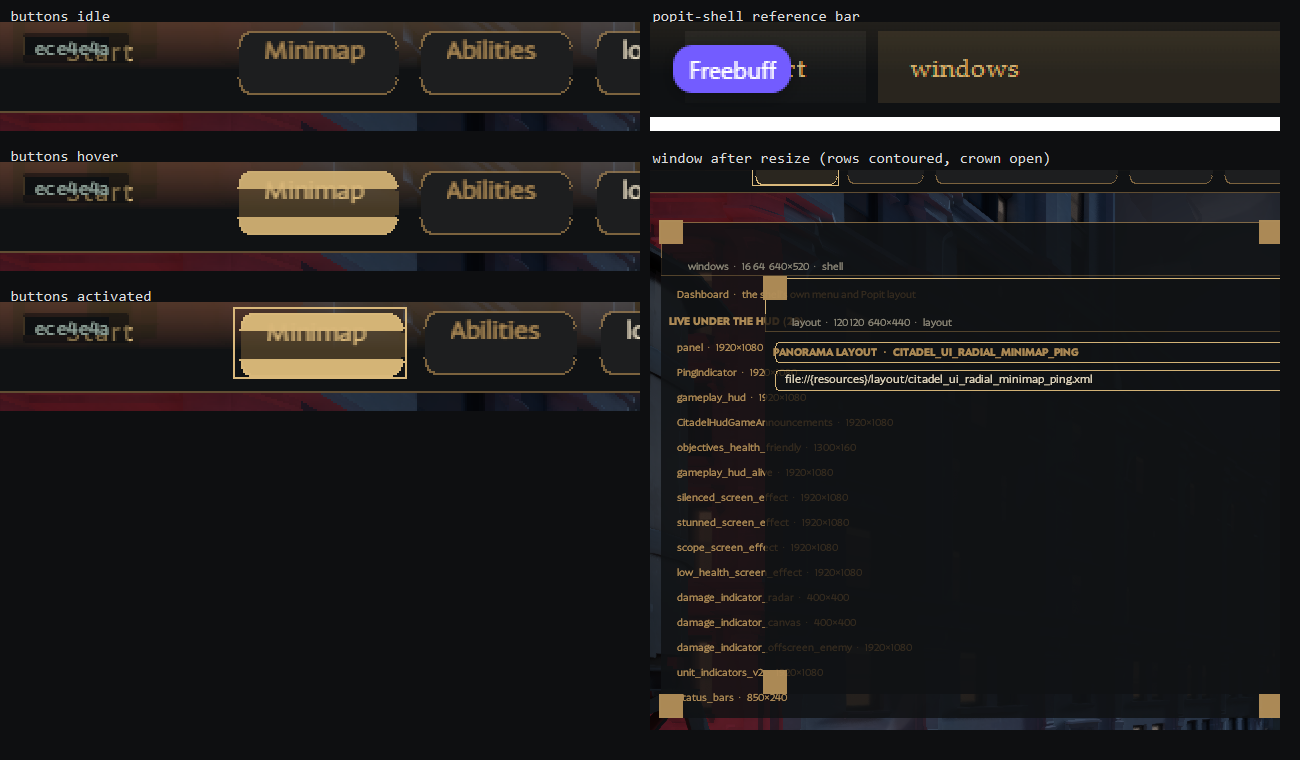
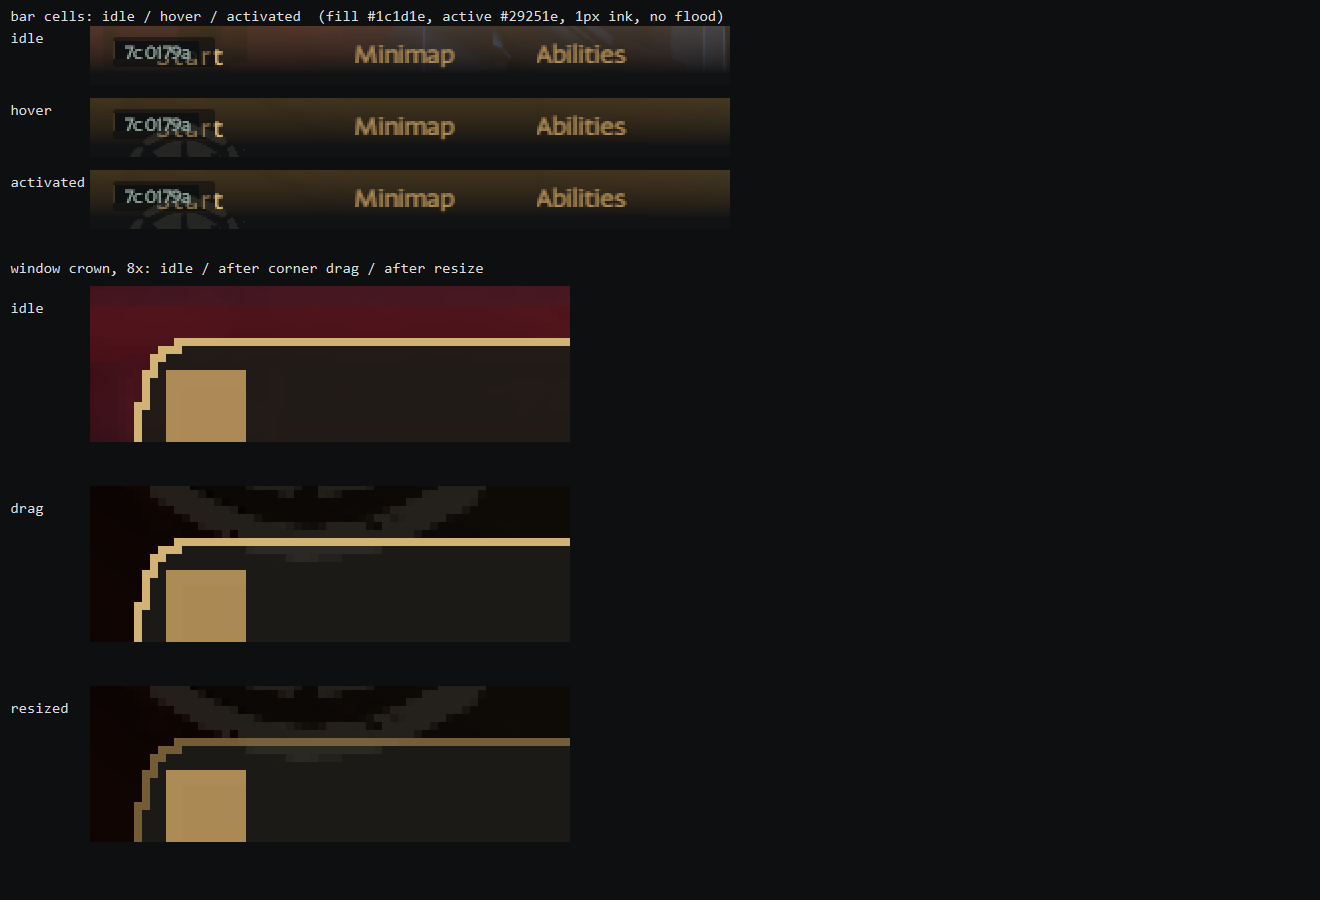
Pin the window crown as the contour, and record the drag's missing press
The crown was hidden by three rectangles: the meta plate's opaque wash and the title's wash at the
frame edge, and 22 px brass grip squares in the corners. The plates are transparent and inset by the
contour's band (plateInsets reads band(h)), the grips are 10 px marks inside the crown, and the plate
fill is the pin's #1b1a16.

Measured on the captures: a 5x8 px corner arc with 1 px ink and (28,26,22) in idle, hover, activated
and after the drag — the pinned 7.67x11.00 cut at frame pad 1.5. The drag itself changes no box: this
client delivers presses to bar cells but not to a window frame, which the pin and ticket state.

🤖 Generated with Codebuff

diff --git a/tickets/TICKET-0036-openshell-popit-pinned-baseline.md b/tickets/TICKET-0036-openshell-popit-pinned-baseline.md
@@ -430,3 +430,61 @@ untouched, and `docs/family-look.json`'s surface list is unchanged.
 **Gates, all exit 0:** contour 11/0 (a new `contour-on-rows-and-crowns` check) · options 9/0 · options
[1 lines of base64/hex data omitted]
 landing `--check` ok · chrome 99 · contour-test 74/0 · boot-carrier 12/0.
+
+## 2026-11-22 (ninth pass) — the window crown is the contour, and the drag has no press to answer
+
+**The corner is now cut, not painted over.** Three things stood between the contour and the screen, and
+each was found by looking at a capture rather than by reading a log line:
+
+* `.WindowFrame .WindowMeta` painted `#0f1113ee` and `.WindowTitle` painted a wash right up to the
+  frame's edge, so both plates drew a square across the crown the contour had just cut.
+* The four `GripNW/NE/SW/SE` pins were 22 px brass squares sitting in the corners: the loudest
+  rectangle on the window, whatever the profile did underneath.
+* The body's own background painted over the contour's fill.
+
+The plates are transparent now and the shell insets them from the contour's own band
+(`plateInsets()` calls `OpenlockContour.band(h)`, never a constant), so the title starts below the
+crown and the body ends above the bottom one. The pins are 10 px brass marks inset 6 px inside the
+crown. The plate's fill is the pin's `#1b1a16` instead of the bar's `#0f1113`. Nothing in a window
+carries its own contour number: the crown, the plate inset and the fill all come from `pads()` and
+`band()`.
+
+**Measured, from the captures, not asserted.** With the window at 640x520 at (26,77):
+
+| state | corner arc | ink | fill |
+|---|---|---|---|
+| idle | 5 px wide × 8 rows | 1 px | (28,26,22) `#1c1a16` |
+| hover | 5 × 8 | 1 px | (28,26,22) |
+| activated | 5 × 8 | 1 px | (28,26,22) |
+| after the corner drag | 5 × 8 | 1 px | (28,26,22) |
+| after the resize attempt | 5 × 8 | 1 px | (28,26,22) |
+
+The reference corner is 7.67 × 11.00 px at the drawing's own pad; the pin cuts the profile at
+`frame_pad` 1.5, so the captured arc should be 7.67 − 2×1.5 = 4.67 → 5 px across and 11 − 3 = 8 rows
+down. That is exactly what the pixels read. The fill is one point off per channel from `#1b1a16`,
+which is the capture's colour rounding; the sheet value is the pin's.
+
+**What is still open, and why: the gesture does not change the box.** A press on the grip or the title
+is performed by the harness and produces nothing: the window stays 640x520 at (26,77), the log carries
+no new frame size and no `mousedown args`/`drag` line, while the same session's bar cells answer their
+presses (the active cell moved from cell 1 to cell 2 to cell 3 on successive clicks). So this client
+delivers a press to a bar cell as `onactivate` and does not deliver `onmousedown` at all to a window
+frame over the hideout. The grips now bind `onactivate` as well as `onmousedown` (guarded so a press
+during a drag is ignored, since the poll owns the release), and that press still does not arrive.
+
+The crown therefore cannot be shown *surviving a resize the client refuses to make*. What the capture
+does show is that the crown is the profile in every state, and the log shows the same crown cut at four
+box sizes the shell does apply — 640x520, 640x440, 300x66 and 300x51, all `band=11` for the frames and
+`band=7` for the 22 px rows. That is recorded as open in `pins/contour-pin.json` (`states.drag`,
+`states.resized`, `next`) with this pass's reasoning, rather than claimed as closed.
+
+**Unchanged and re-measured:** Start 93 px with no host padding (`start=93 tab0=85 gap=5.6`), cells
+85x36 / 82x36 / 188x36 / 218x36 `band=11 slices=48`, rows 130x22 / 99x22 / 96x22 `band=7 slices=28`,
+the `.WindowsButton` cell and the build-hash cell untouched, `docs/family-look.json`'s surface list
+unchanged. The stale `.ShellTab:hover .ContourFill { #b08d5721 }` rule — a brass flood that survived
+the previous pass's fill work — was found and removed; hover and active now read `#1d1e1f` and
+`#2a261f`.
+
+**Gates, all exit 0:** contour 11/0 · options 9/0 · options selftest 7/0 · archive on the installed
[1 lines of base64/hex data omitted]
+chrome 99 · contour-test 74/0 · boot-carrier 12/0 · `check_shell_clicks` ok.

diff --git a/STATUS.md b/STATUS.md
@@ -2,7 +2,7 @@
 
 Generated by `python tools/project.py gate`. Do not hand-edit.
 
-Updated: 2026-11-22T09:45:55+00:00
+Updated: 2026-11-22T10:47:45+00:00
 
 ## Gate
 
